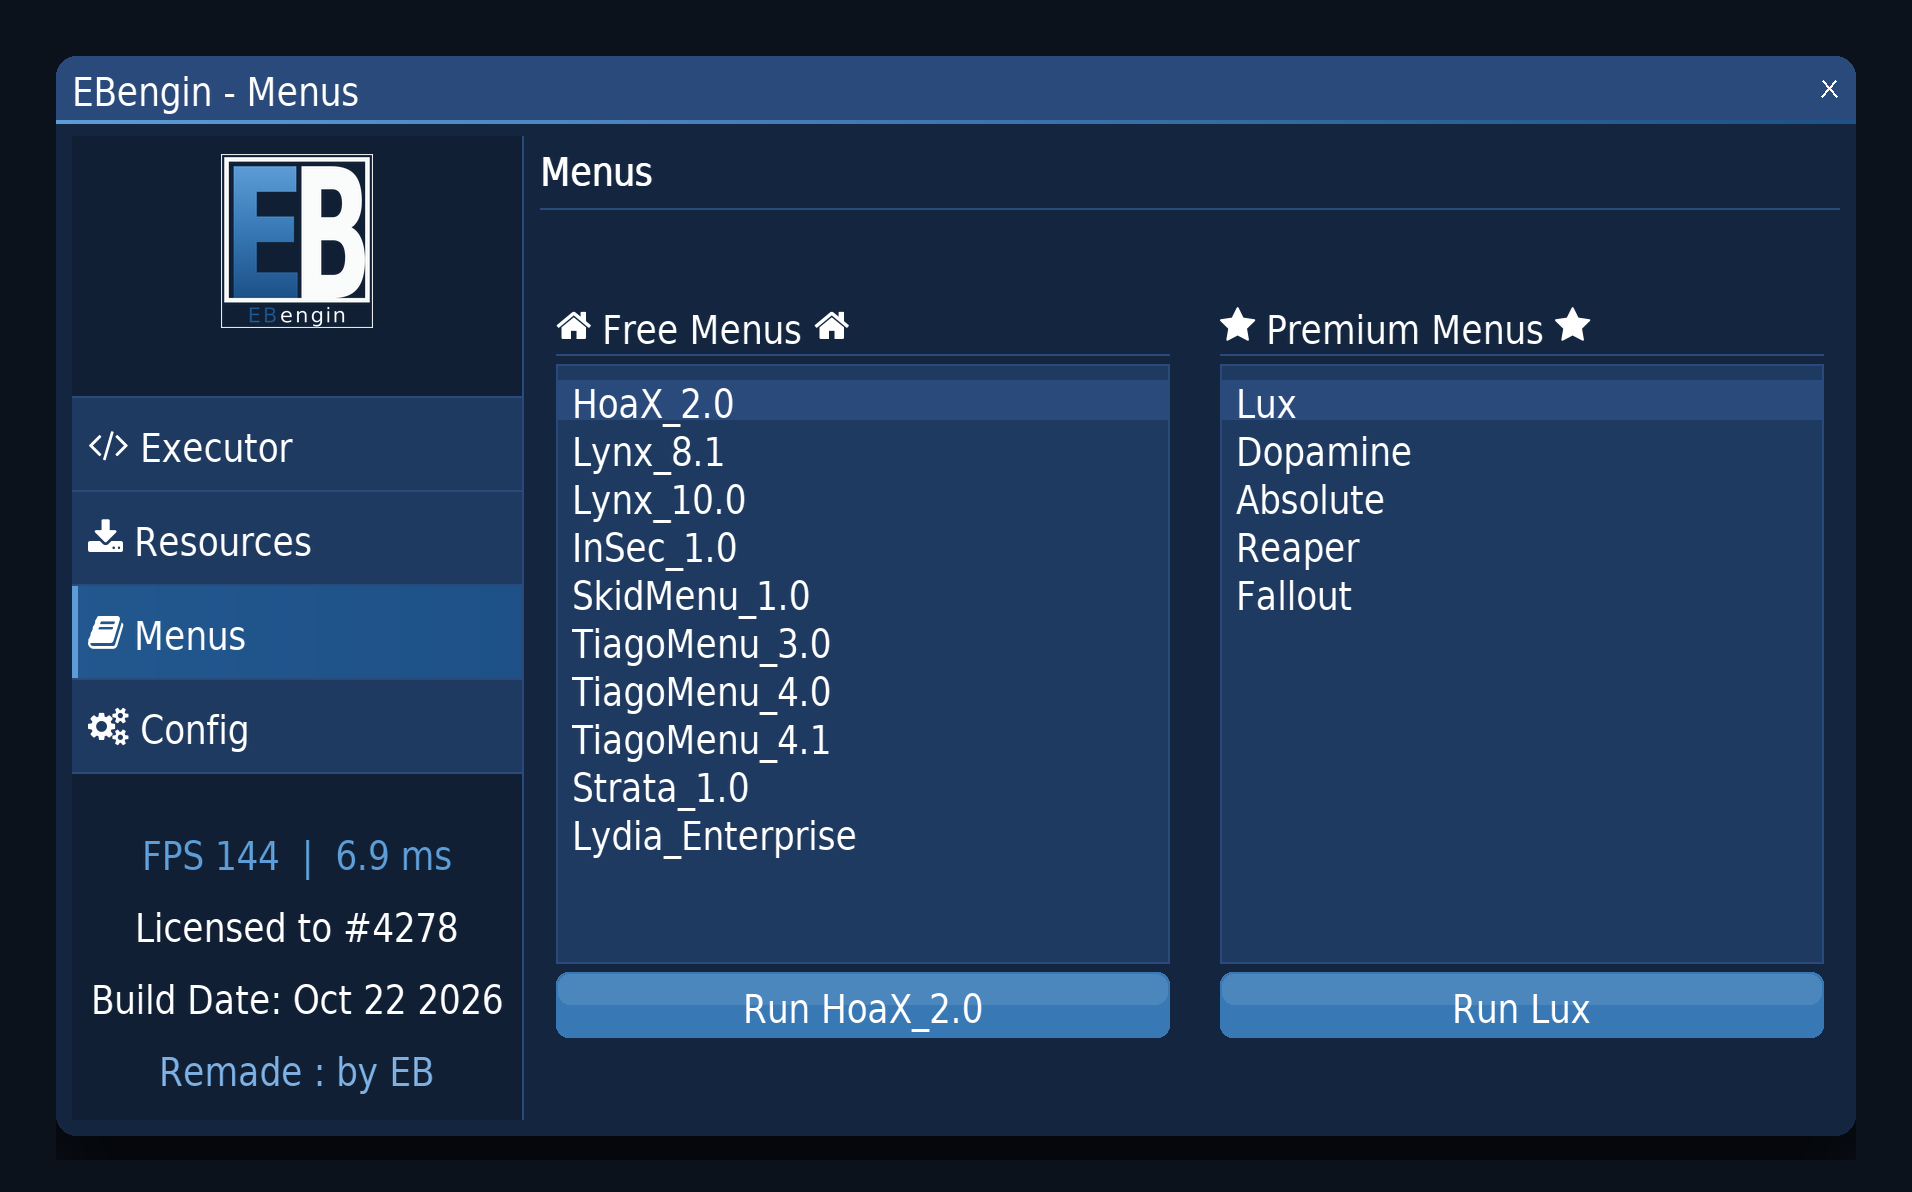
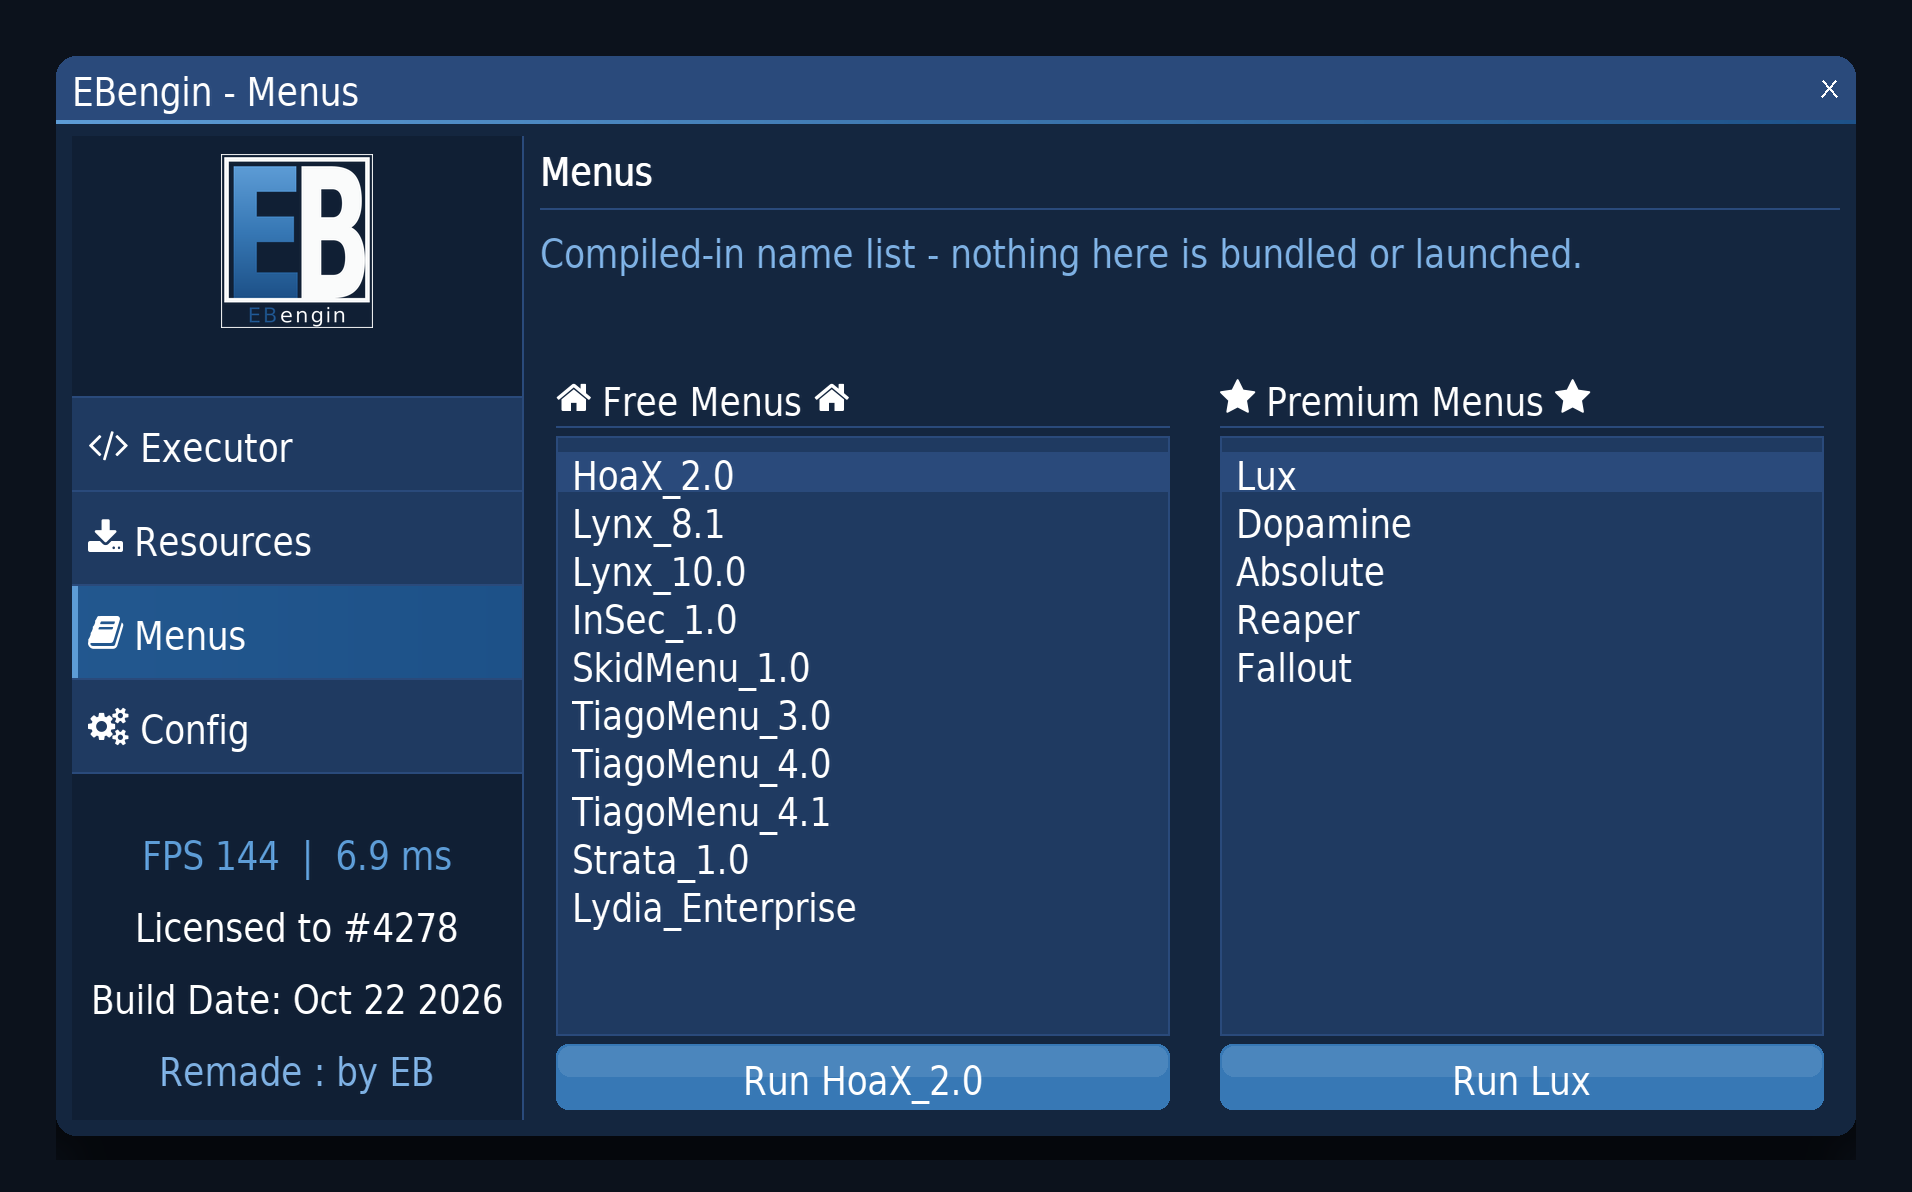
Menus tab discloses its compiled-in name list (row 230 pattern); renderer models the line; row 232

Changed region(s): [[0.2777, 0.1862, 0.9566, 0.776], [0.2777, 0.807, 0.9566, 0.9312]]

diff --git a/luamenus.cpp b/luamenus.cpp
@@ -91,6 +91,13 @@ namespace Menus
 	void Render()
 	{
 		Gui::SectionTitle("Menus", "##menus_seperator_1");
+		// UI: row 232 - the same provenance as the Resources list (row 230): both
+		// name vectors are compile-time constants; nothing is fetched, bundled or
+		// launched.  The Run tooltip says "not bundled", but only on hover - until
+		// then the two lists read like an installed catalogue.  The tab itself now
+		// says so up front, with the same muted token.
+		ImGui::TextColored(ColMuted, "%s",
+			"Compiled-in name list - nothing here is bundled or launched.");
 		ImGui::NewLine();
 
 		const float halfWidth = ImGui::GetContentRegionAvail().x / 2.0f;

diff --git a/docs/render_preview.py b/docs/render_preview.py
@@ -998,6 +998,11 @@ elif TAB == "menus":
     y = CY0 + LINE_ADV
     R(CX0, y, CX1, y + 1, C_BORDER)
     y += 1 + ITEM_SPACING_Y
+    # UI: row 232 - the tab's provenance line, muted brand token (row 147)
+    T(CX0, y + (LINE_H - FONT_SIZE) / 2,
+      "Compiled-in name list - nothing here is bundled or launched.",
+      C_MUTED_BRAND)
+    y += LINE_ADV
     y += LINE_ADV                                   # ImGui::NewLine()
 
     half = (CX1 - CX0) / 2.0

diff --git a/BUILD.md b/BUILD.md
@@ -369,6 +369,7 @@ Separate from the build fixes above: these are bugs that compiled fine but misbe
 | 229 | Execute and the resource stopper carried `_cfx_internal` special cases that answered with red error modals ("You can't execute in _cfx_internal.", "You can't stop _cfx_internal") - capability claims in refusal form: they imply execution/stopping works for every other resource, while this build implements neither (Execute reports only, Stop only removes the entry from the local list after saying so). A real click screenshot showed the error box | Both special cases are gone: `_cfx_internal` takes the same honest paths as every other entry - the report-only Execute modal that names target and script size, and the confirmed local-list removal that states it does not stop anything on the server. No handler signature changed, no payload added |
 | 230 | The Resources tab and the Executor target combo operate on a compiled-in sample list (exec.cpp), but nothing in the UI said so: names like `_cfx_internal` or `esx_mafia` read as live server discovery, while the project's own honesty contract gives inert features visible labels in the tab (the Safe Mode / ScriptHook Bypass pattern) | The Resources tab opens with a muted provenance line ("Compiled-in sample list - nothing here is read from a server."), the Executor combo says the same in a hover tooltip, the README names the list's origin, and docs/render_preview.py models the new line - so preview_resources.png shifts by exactly that line, committed deliberately |
 | 231 | The "Reset interface settings" confirm named four of the six things the whole-struct assignment resets: the stored window position and last tab go back to defaults too - main.cpp opens the next session on the stored tab (`Menu::Tab = Settings::Current.Tab`) - yet no UI text mentioned the tab anywhere | The modal, the button tooltip and the success toast now state the complete scope: key/scale/switches/HUD corner are overwritten at once; the stored window position and last tab reset and apply on the next start |
+| 232 | The Menus tab lists compiled-in menu names (FreeMenus/PremMenus in luamenus.cpp), and nothing said so until the Run button's hover tooltip - the lists read like an installed catalogue, the same provenance gap the Resources tab had before row 230 | The tab opens with the same muted provenance line ("Compiled-in name list - nothing here is bundled or launched."), the README names the menu lists' origin too, and docs/render_preview.py models the line - so preview_menus.png shifts by exactly that line, committed deliberately |
 
 
 

diff --git a/CHANGELOG.md b/CHANGELOG.md
@@ -11,6 +11,15 @@ say so in the UI - see README and PR #1.
 "row N" refers to the fix table in `BUILD.md` §5.  The PR body carries a summary
 and the verification anchor only; per-batch write-ups live here and in the commits.
 
+## The Menus tab joins the Resources provenance pattern (row 232)
+- FreeMenus/PremMenus (luamenus.cpp) are compile-time constants, but the only hint was the Run
+  button's hover tooltip ("not bundled"); until hovered, the lists read like an installed
+  catalogue - the same provenance gap row 230 closed for the Resources list.
+- The tab now opens with the same muted line - "Compiled-in name list - nothing here is bundled
+  or launched." - and the README names the menu lists' origin next to the resource list's.
+  docs/render_preview.py models the line, so preview_menus.png shifts by exactly one line; the
+  changed render is committed deliberately, the other seven stay byte-identical.
+
 ## The reset dialog names everything it destroys (row 231)
 - "Restore the compiled defaults?" listed four of the six things the whole-struct assignment
   resets: the stored window position and the last tab go back to defaults as well - and main.cpp

diff --git a/README.md b/README.md
@@ -459,7 +459,8 @@ Until then there is **no CI and no compile proof** — every check on this branc
   confirms before removing an entry).
   The resource names in the Executor combo and the Resources tab are a **compiled-in sample
   list** (`exec.cpp`); nothing is enumerated from a server, and the Resources tab says so in a
-  muted line above the sub-tabs (row 230).
+  muted line above the sub-tabs (row 230).  The menu names on the Menus tab are compiled-in
+  constants as well (`luamenus.cpp`); the tab carries the same muted disclosure (row 232).
   What is **still a stub** (and now says so in a tooltip before the click as well as in a
   message box after it, instead of doing nothing silently):
   actually executing a script, actually stopping a server resource, launching the listed menus,
